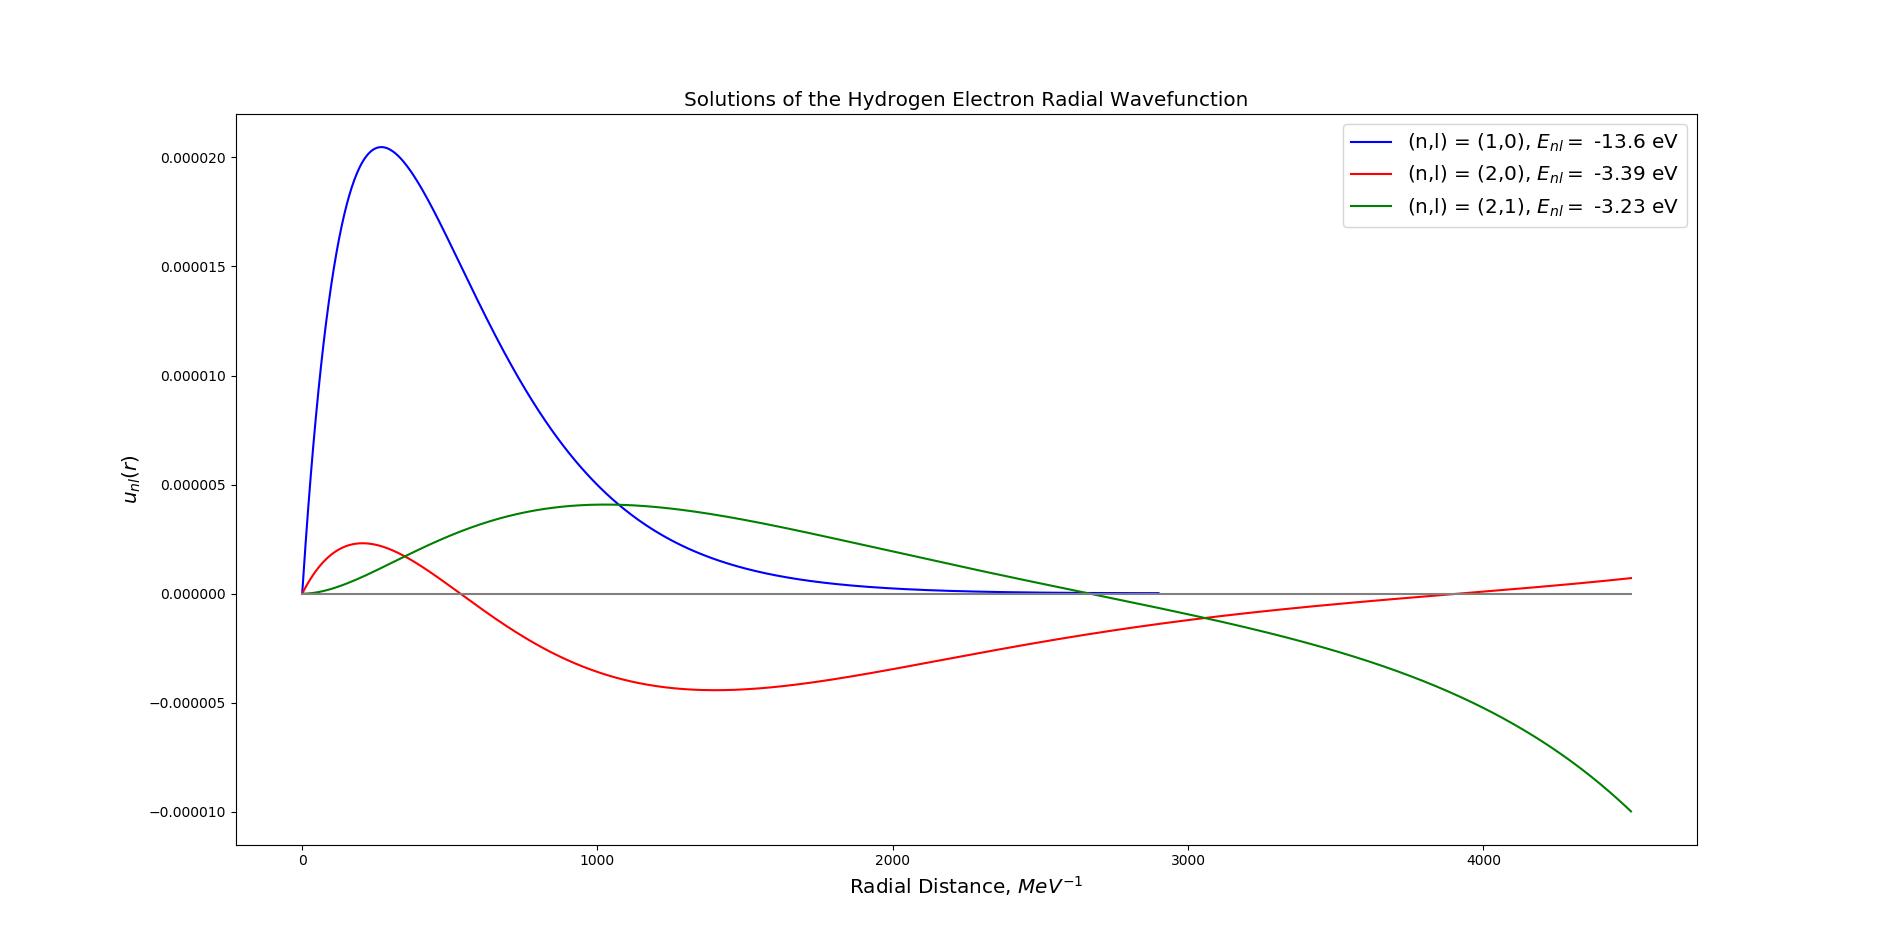
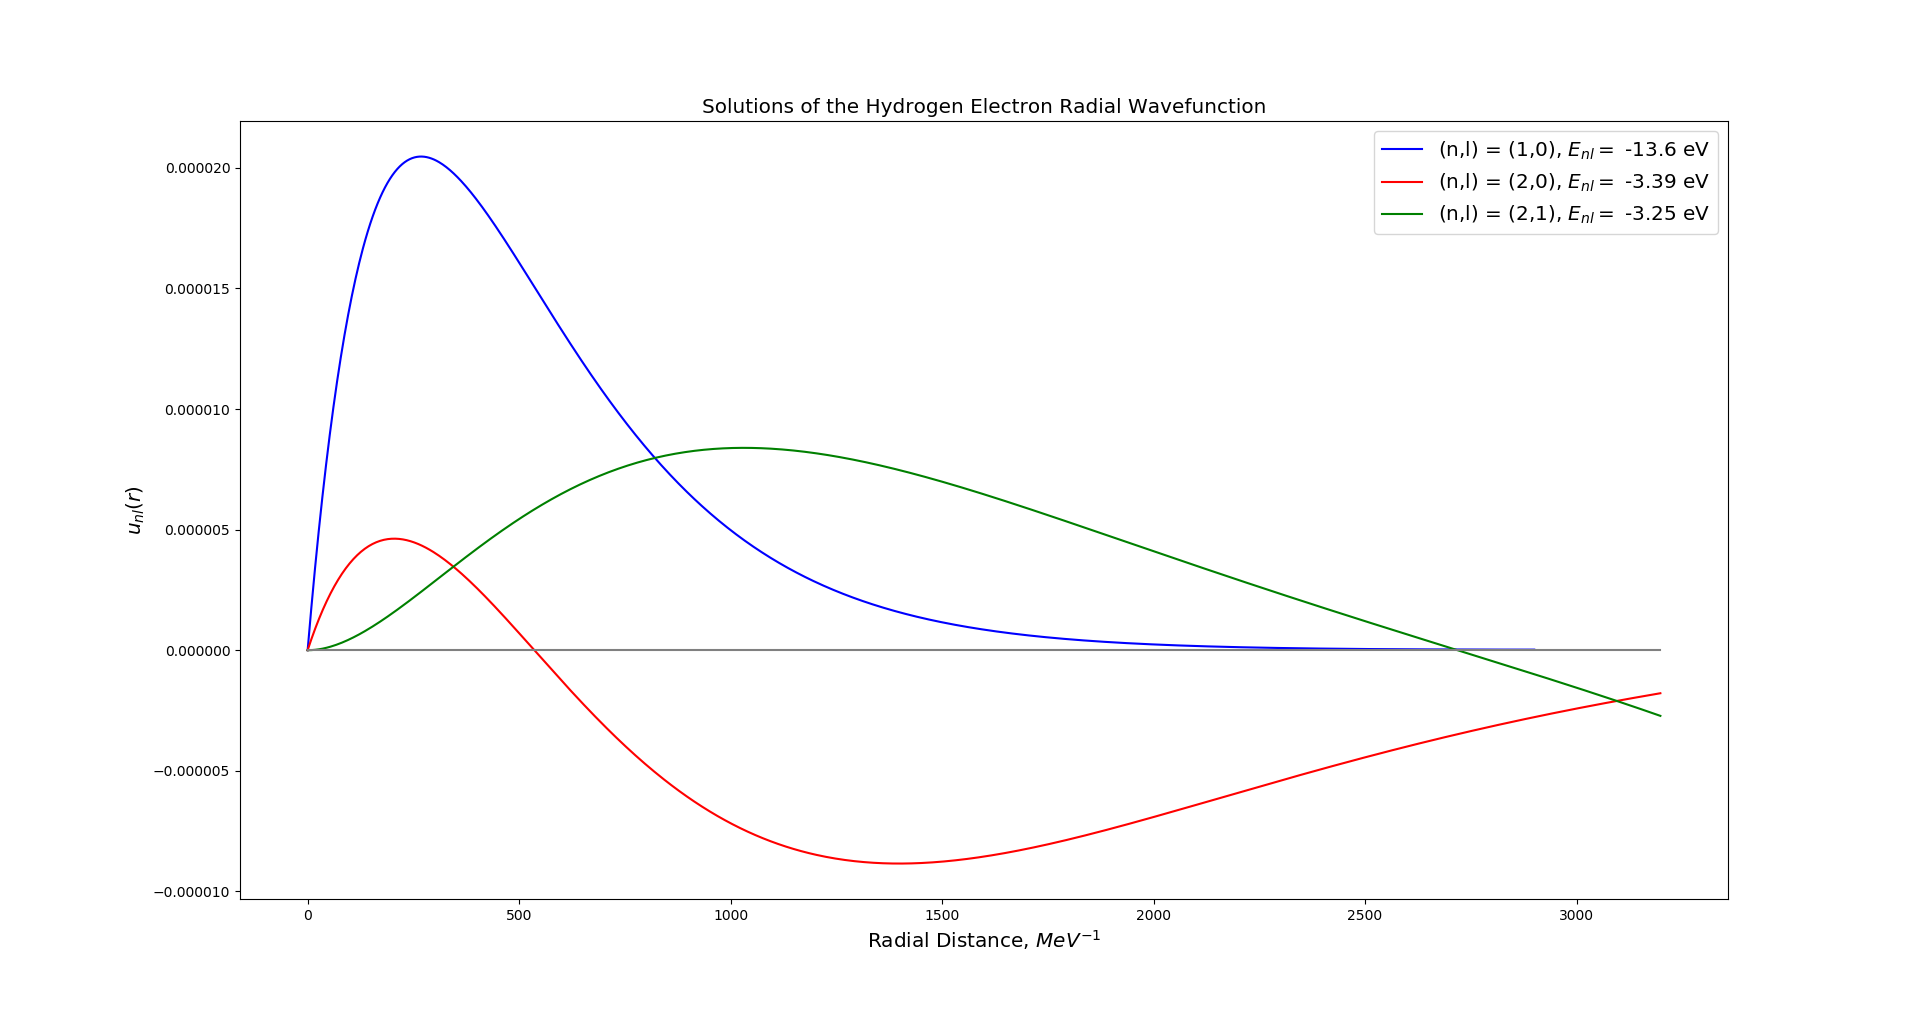
milestone finished, prob dens plotted etc

diff --git a/hydrogen.py b/hydrogen.py
@@ -4,7 +4,7 @@ import math
 from scipy.integrate import odeint
 from scipy.integrate import simps
 import matplotlib.pyplot as plt
-from myfunctions import wavefn, turningpoints, nodes, itera, normaliser, statement
+from myfunctions import wavefn, turningpoints, nodes, itera, normaliser, statement, sqr
 
 u0 = [0, 1] #array of u and du/dr vals at 0
 
@@ -43,20 +43,36 @@ E23 = 3.5e-6
 #    E2 = 5e-7
 #    E3 = 1e-6
 
-sol_1, du_1, En_1, norm_1 = itera(1, 0, E11, E12, E13, u0, alpha, beta, mu, r1, step1)
-sol_20, du_20, En_20, norm_20 = itera(2, 0, E01, E02, E03, u0, alpha, beta, mu, r2, step2)
-sol_21, du_21, En_21, norm_21 = itera(2, 1, E21, E22, E23, u0, alpha, beta, mu, r2, step2)
+sol_1, du_1, En_1 = itera(1, 0, E11, E12, E13, u0, alpha, beta, mu, r1, step1)
+sol_20, du_20, En_20 = itera(2, 0, E01, E02, E03, u0, alpha, beta, mu, r2, step2)
+sol_21, du_21, En_21 = itera(2, 1, E21, E22, E23, u0, alpha, beta, mu, r2, step2)
 
-statement(sol_1,1,0,r1,En_1, norm_1)
-statement(sol_20,2,0,r2,En_20, norm_20)
-statement(sol_21,2,1,r2,En_21,norm_21)
+statement(sol_1,1,0,r1,En_1)
+statement(sol_20,2,0,r2,En_20)
+statement(sol_21,2,1,r2,En_21)
 
-sol_21 = sol_21/(norm_1*20)
+sol_21 = sol_21*5e5
+sol_20 = sol_20*2
 
 En_1 = En_1*-1e6
 En_20 = En_20*-1e6
 En_21 = En_21*-1e6
 
+pr1 = sqr(sol_1)
+pr20 = sqr(sol_20)
+pr21 = sqr(sol_21)
+
+for i in range(len(r2)):
+    if r2[i] > 3200:
+        cut_off = i
+        break
+r2 = r2[:cut_off]
+sol_20 = sol_20[:cut_off]
+sol_21 = sol_21[:cut_off]
+pr20 = pr20[:cut_off]
+pr21 = pr21[:cut_off]
+
+f1 = plt.figure(1)
 plt.plot(r1, sol_1, 'b',label="(n,l) = (1,0), $E_{nl} =$ %.1f eV" % En_1)
 plt.plot(r2, sol_20, 'r',label="(n,l) = (2,0), $E_{nl} =$ %.2f eV" % En_20)
 plt.plot(r2, sol_21, 'g',label="(n,l) = (2,1), $E_{nl} =$ %.2f eV" % En_21)
@@ -67,6 +83,19 @@ plt.legend(loc=1, fontsize='x-large')
 plt.title("Solutions of the Hydrogen Electron Radial Wavefunction",fontsize='x-large')
 plt.xlabel("Radial Distance, $MeV^{-1}$",fontsize='x-large')
 plt.ylabel("$u_{nl}(r)$",fontsize='x-large')
+
+f2 = plt.figure(2)
+plt.plot(r1, pr1, 'b',label="(n,l) = (1,0), $E_{nl} =$ %.1f eV" % En_1)
+plt.plot(r2, pr20, 'r',label="(n,l) = (2,0), $E_{nl} =$ %.2f eV" % En_20)
+plt.plot(r2, pr21, 'g',label="(n,l) = (2,1), $E_{nl} =$ %.2f eV" % En_21)
+## probs get gridspec in here for separate plots
+plt.plot((r2[0],r2[-1]),(0,0),'grey')
+
+plt.legend(loc=1, fontsize='x-large')
+plt.title("Probability Densities of the Hydrogen Electron Radial Wavefunction",fontsize='x-large')
+plt.xlabel("Radial Distance, $MeV^{-1}$",fontsize='x-large')
+plt.ylabel("$|u_{nl}(r)|^2$",fontsize='x-large')
+
 plt.show()
 
 

diff --git a/myfunctions.py b/myfunctions.py
@@ -178,9 +178,9 @@ def itera(n, l, E1, E2, E3, u0, alpha, beta, mu, r, step):
         du2 = sol2[:,1]
         du3 = sol3[:,1]
 
-        soli1, du1, norm1 = normaliser(soli1, du1, step)
-        soli2, du2, norm2 = normaliser(soli2, du2, step)
-        soli3, du3, norm3 = normaliser(soli3, du3, step)
+        soli1, du1 = normaliser(soli1, du1, step, n,l,r)
+        soli2, du2 = normaliser(soli2, du2, step,n,l,r)
+        soli3, du3 = normaliser(soli3, du3, step,n,l,r)
 
         maxi1, mini1, maxs1, mins1 = turningpoints(r, soli1,n,l)
         maxi2, mini2, maxs2, mins2 = turningpoints(r, soli2,n,l)
@@ -248,28 +248,32 @@ def itera(n, l, E1, E2, E3, u0, alpha, beta, mu, r, step):
                     E3 = -1*E3
                 q += 1
 
-    return soli2, du2, E2, norm2
+    return soli2, du2, E2
 
-def normaliser(wvfn, dwv, step):
+def normaliser(wvfn, dwv, step, n, l, r):
     '''
         Gonna normalise those wavefns
     '''
+    if n == 2 and l == 1:
+        for rs in range(len(r)):
+            if r[rs] > 3000:
+                break
+        wvfn_new = wvfn[:rs]
+    else: 
+        wvfn_new = wvfn
+
     norm = 0
-    for n in range(len(wvfn)):
-        norm = norm + abs(wvfn[n])**2
+    for n in range(len(wvfn_new)):
+        norm = norm + abs(wvfn_new[n])**2
 
     prob = norm*step
 
     wvfn = wvfn/prob
     dwv = dwv/prob
 
-    norm = 0
-    for n in range(len(wvfn)):
-        norm = norm + abs(wvfn[n])**2
+    return wvfn, dwv
 
-    return wvfn, dwv, norm
-
-def statement(wvfn,n,l,r,E,normie):
+def statement(wvfn,n,l,r,E):
     '''
         Statement of maxima, minima, nodes, and energy of functions
     '''
@@ -290,3 +294,15 @@ def statement(wvfn,n,l,r,E,normie):
     print "    The energy of this state is %.4e" % E
 
     return None
+
+def sqr(wvfn):
+    '''
+        Returns square of wavefunction
+    '''
+    
+    prob_dens = np.zeros(wvfn.shape)
+    for ni in range(len(wvfn)):
+        prob_dens[ni] = abs(wvfn[ni])**2
+
+    return prob_dens
+

diff --git a/README.md b/README.md
@@ -8,16 +8,18 @@
     - [x] Solve SE for specific quark mass and energy values
     - [x] Calculate number of nodes and turning points
     - [x] Guess new energy or beta and iterate for solution
-    - [x] Find energy or beta, whichever not found before
+    - [ ] Find energy or beta, whichever not found before
     - [ ] Plot resulting wavefunctions
 
 - [x] Milestone Program
     - [x] Calculate energy levels and wavefns of hydrogen
         - [x] Check for (n,l) = (1,0), (2,0), (2,1) states
         - [x] Compare to analytic solns
-    - [x] ![My solution](/images/Hydro.png)
-    - [ ] Calculate energy of (2,1) state and plot |u(nl)|^2
-        - still to plot u_nl^2
+    - [x] ![My solution](/images/Hydro.png "My solution")
+    - [x] Calculate energy of (2,1) state and plot |u(nl)|^2
+        - ![Plot](/images/probs.png "Energies on plot as well")
+
+- [ ] Presentation
 
 - [ ] Program Extension
     - [ ] Apply program to Charmonium - need to iterate over beta now instead of E
